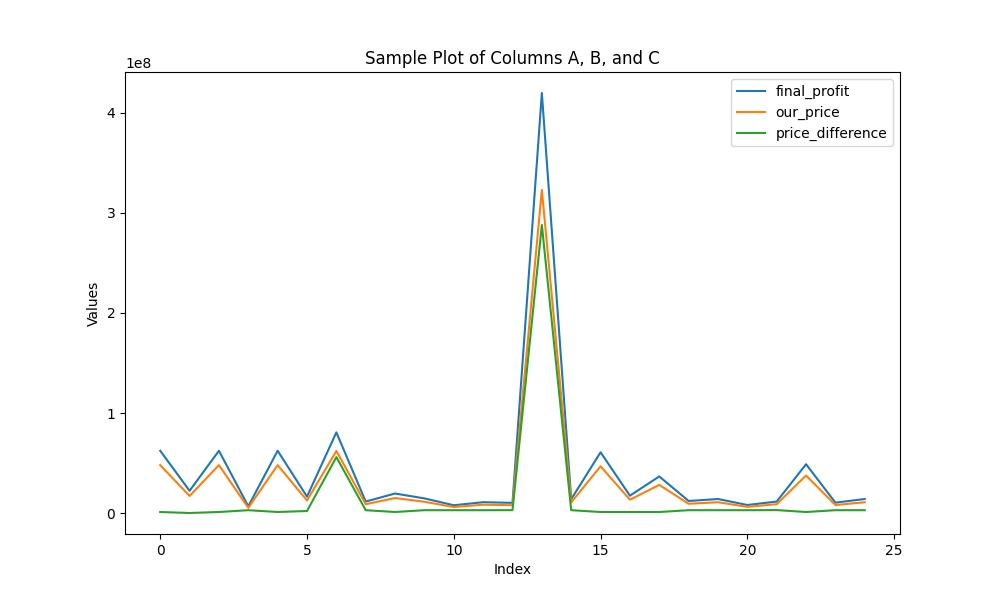
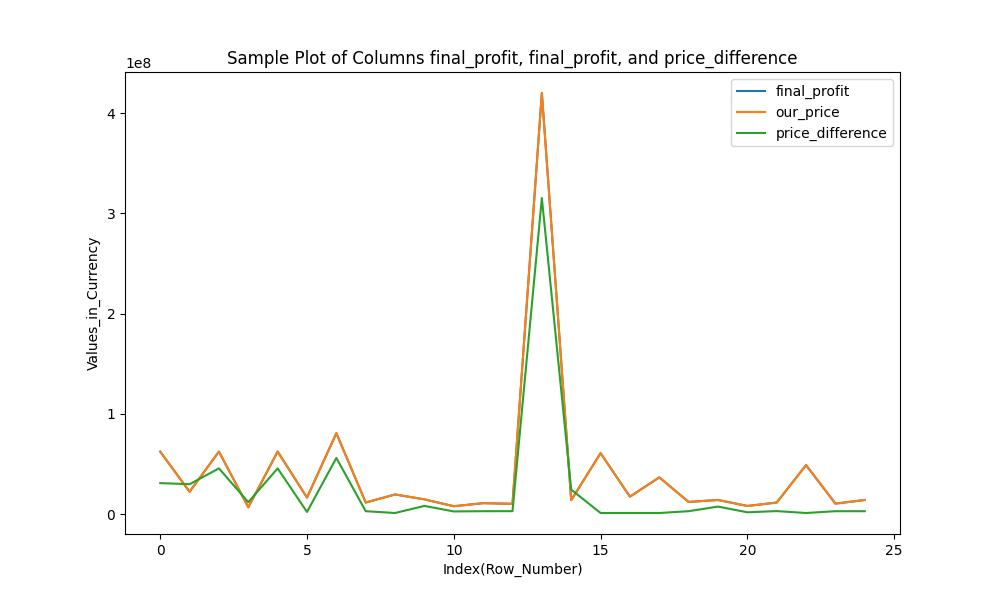
added last data's to the repository

diff --git a/server.py b/server.py
@@ -13,34 +13,6 @@ from scrape_threads import crawler_threads
 from final_df import create_final_dataset, create_plot
 
 
-
-#amazon
-queue_amazon = crawler_queue("amazon")
-crawler_threads(scrape_amazon_product_details,queue_amazon,list_amazon)
-print(list_amazon)
-df_amazon = create_data_frames(list_amazon, "amazon.csv")
-time.sleep(60)
-#digikala 
-queue_digikala = crawler_queue("digikala")
-crawler_threads(scrape_digikala_product_details,queue_digikala,list_digikala)
-print(list_digikala)
-df_digikala = create_data_frames(list_digikala, "digikala.csv")
-time.sleep(20)
-#olfa
-queue_olfa = crawler_queue("olfa")
-crawler_threads(scrape_olfa_product_details,queue_olfa,list_olfa)
-print(list_olfa)
-df_olfa = create_data_frames(list_olfa, "olfa.csv")
-time.sleep(5)
-
-
-df_amazon = pd.read_csv('digikala.csv', encoding='utf-8')
-df_digikala = pd.read_csv('olfa.csv', encoding='utf-8')
-df_olfa = pd.read_csv('amazon.csv', encoding='utf-8')
-df_combined = combine_data_frames(df_amazon,df_digikala,df_olfa)
-print(df_combined)
-
-
 server = socket.socket(socket.AF_INET, socket.SOCK_STREAM)
 server.bind(("localhost", 9080))
 
@@ -90,15 +62,14 @@ create_plot()
 message = "final_data.csv"
 conn.send(message.encode("UTF-8"))
 
+data=conn.recv(1024).decode("UTF-8")
+print(data)    
+
 with open("output1.png", "rb") as file:
     image_data = file.read()
 
 # ارسال دادههای باینری تصویر
 conn.sendall(image_data)
-
-
-data=conn.recv(1024).decode("UTF-8")
-print(data)    
-
+    
 conn.close()  
 server.close()

diff --git a/final_df.py b/final_df.py
@@ -87,13 +87,13 @@ def create_plot():
     # Plot the columns A, B, and C
     plt.figure(figsize=(10, 6))
     plt.plot(df['final_profit'], label='final_profit')
-    plt.plot(df['our_price'], label='our_price')
+    plt.plot(df['final_profit'], label='our_price')
     plt.plot(df['price_difference'], label='price_difference')
 
     # Adding titles and labels
-    plt.title('Sample Plot of Columns A, B, and C')
-    plt.xlabel('Index')
-    plt.ylabel('Values')
+    plt.title('Sample Plot of Columns final_profit, final_profit, and price_difference')
+    plt.xlabel('Index(Row_Number)')
+    plt.ylabel('Values_in_Currency')
     plt.legend()
 
     

diff --git a/client.py b/client.py
@@ -17,11 +17,15 @@ response = client.recv(1024).decode("UTF-8")
 print("responce",response)
 time.sleep(100)
 
+
 response = client.recv(1024).decode("UTF-8")
 print("responce",response)
 df_final_data = pd.read_csv(response, encoding='utf-8')
+print(df_final_data)
 
-
+message = "received_successfully"
+client.send(message.encode("UTF-8"))
+#دریافت داده تصویر باینری 
 image_data = b""
 while True:
     data = client.recv(1024)
@@ -33,9 +37,6 @@ while True:
 with open("received_output1.png", "wb") as file:
     file.write(image_data)
 
-
-message = "received_successfully"
-client.send(message.encode("UTF-8"))
 
 
 client.close()
